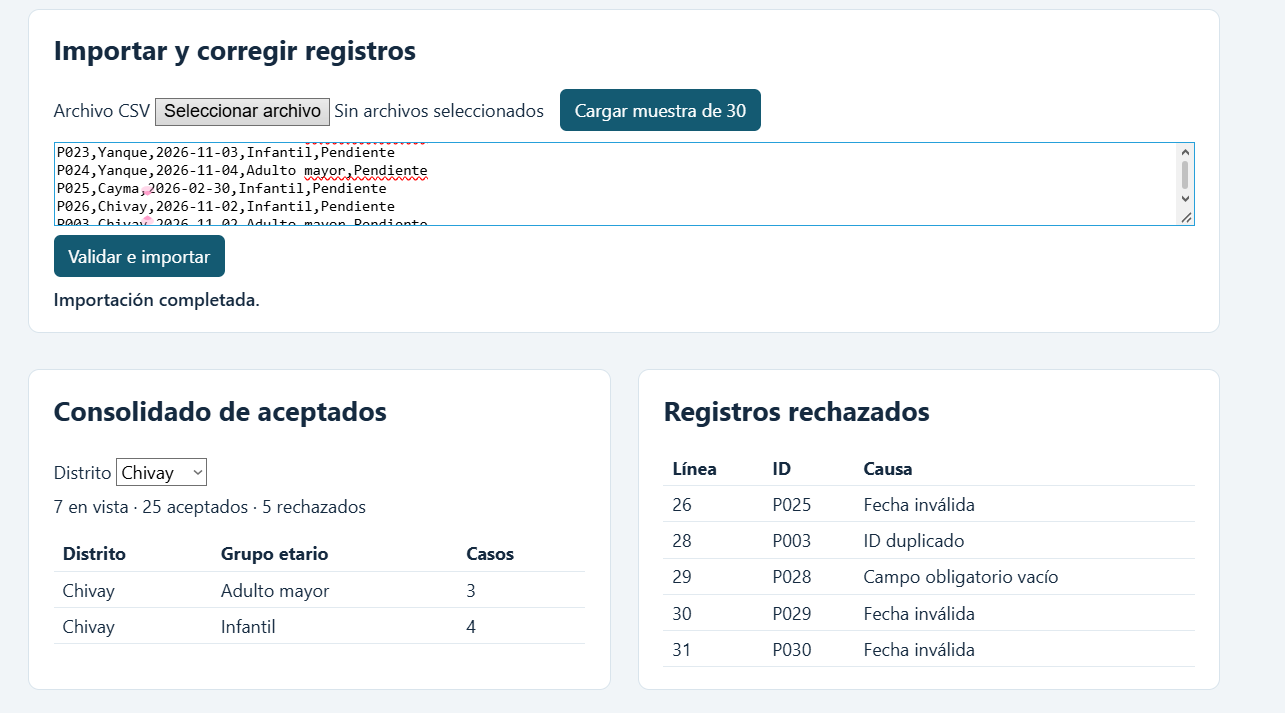
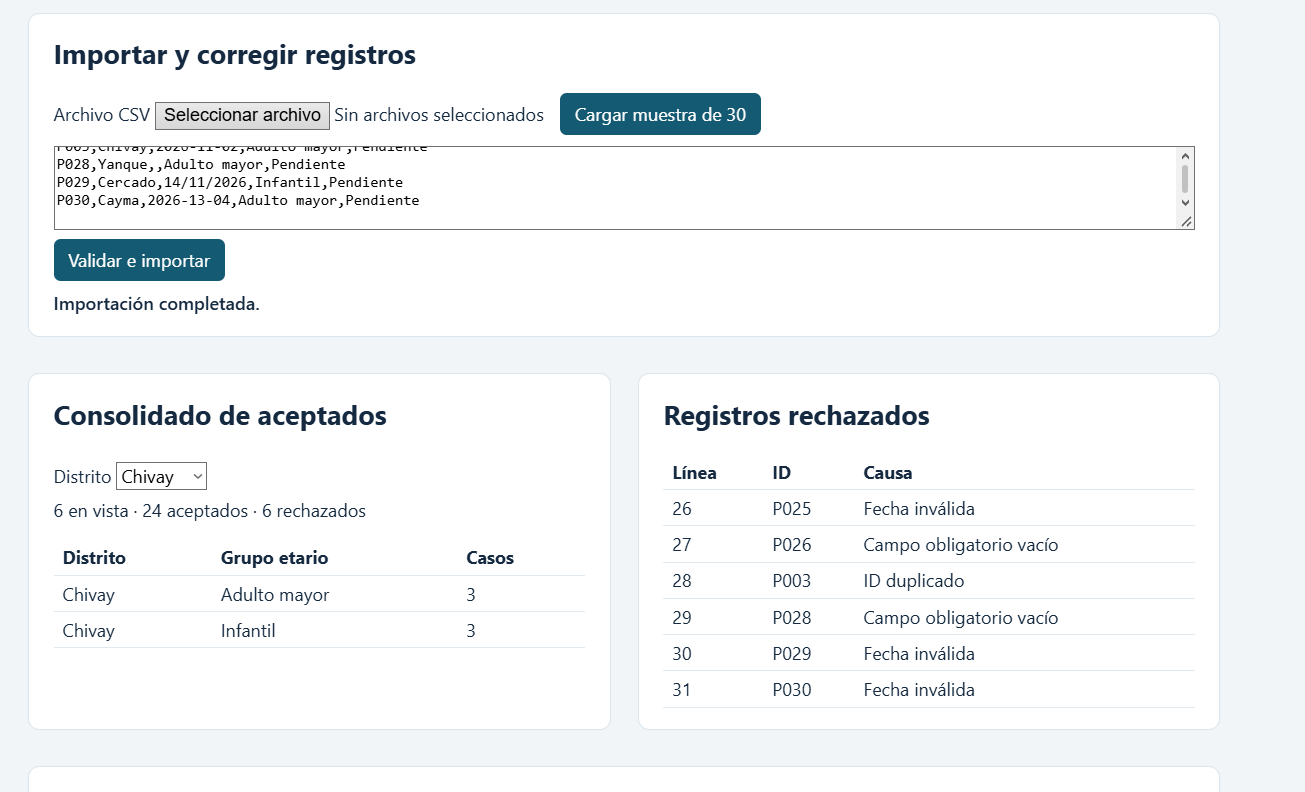
docs: vincular capturas correctas de T09 y T10

diff --git a/07_tablero/generar.py b/07_tablero/generar.py
@@ -40,9 +40,11 @@ EVIDENCE = [
  ("E30","Registro de revisión cruzada","06_evidencias/revision_cruzada/registro.md","Común"),
  ("E31","Verificación de la herramienta","07_tablero/herramienta.md","Común"),
  ("E32","Plan de acopio e indexación","06_evidencias/acopio.md","Común"),
+ ("E33","Captura T09: P026 corregido","06_evidencias/pruebas_usuario/T09_p026_corregido.png","F1"),
+ ("E34","Captura T10: resumen de Chivay","06_evidencias/pruebas_usuario/T10_resumen_chivay.png","F2"),
 ]
 PENDING = {"E27", "E29", "E30"}
-V2_ONLY = {"E05","E12","E18","E26","E28"}
+V2_ONLY = {"E05","E12","E18","E26","E28","E33","E34"}
 V1_ONLY = {"E11","E17","E25"}
 CRITERIA = [
  ("OPD","E1","Estándar y plantillas versionados","E02 E04","E02 E04","E","E","Proceso y tres plantillas localizables."),
@@ -66,7 +68,7 @@ CRITERIA = [
  ("VER","E4","Revisión por pares de evidencia de verificación","","","N","N","Falta revisión humana del log y los pasos."),
  ("VER","E4","Regresión posterior al cambio aprobada","E17","E18 E28","N","E","T12 falla en la base experimental y pasa tras el cambio."),
  ("VAL","E4","Protocolo con dos escenarios y condiciones de observación","E19","E19","E","E","Tareas, cronometraje, condiciones y criterio de aceptación definidos."),
- ("VAL","E4","Dos tareas ejecutadas con usuario simulado","","E18 E19","N","P","v1: sin ejecución con usuario. v2: T09 y T10 confirmadas por el equipo; capturas originales por incorporar."),
+ ("VAL","E4","Dos tareas ejecutadas con usuario simulado","","E18 E19 E33 E34","N","E","v1: sin ejecución con usuario. v2: resultados registrados y capturas enlazadas para T09 y T10."),
  ("VAL","E4","Usuario y revisor corroboran el resultado","","","N","N","No existe un acta confirmada por participantes."),
  ("VAL","E4","Seguimiento de aceptación y adopción en ciclos posteriores","","","X","X","La muestra cubre un piloto; falta observación de ciclos posteriores."),
 ]
@@ -77,7 +79,7 @@ LINKS = [
  ("R03","C10","E09 E17 E18","T02","H01","A01"),
  ("R03","C18","E16 E17 E18","T04","H04","A03"),
  ("R04","C14","E07 E13 E17 E18","T07 T08","H03","A03"),
- ("R05","C22","E18 E19","T09 T10","H02","A02"),
+ ("R05","C22","E18 E19 E33 E34","T09 T10","H02","A02"),
  ("R06","C20","E05 E17 E18 E28","T11 T12","H01","A01"),
 ]
 STATES = {"E":"Evidenciado","P":"Parcial","N":"No evidenciado","X":"No evaluable"}
@@ -127,8 +129,11 @@ def generate():
         test_list=[]
         for row in cases:
             t=tests[v]["pruebas"][row["id"]]
+            evidence_id = "E19" if t["resultado"] == "No ejecutada" else "E17" if v == "v1" else "E18"
+            if row["id"] in {"T09", "T10"} and isinstance(t.get("detalle"), dict):
+                evidence_id = t["detalle"].get("evidencia_id") or evidence_id
             test_list.append(dict(corte=v,**row,observado=t["observado"],duracion_ms=t["duracion_ms"],
-                                  resultado=t["resultado"],evidencia="E19" if t["resultado"]=="No ejecutada" else "E17" if v=="v1" else "E18"))
+                                  resultado=t["resultado"],evidencia=evidence_id))
         all_tests.extend(test_list)
         cnt=lambda tag: sum(r["resultado"]==tag for r in test_list)
         done=len(test_list)-cnt("No ejecutada")

diff --git a/README.md b/README.md
@@ -36,6 +36,8 @@ La suite registra una prueba por ID en cada corte. T03 y T04 conservan las tres 
 
 ## Estado de entrega
 
-v1 es un experimento controlado, no un defecto histórico de PANVIZ. El corte v2 registra 12/12 aprobadas entre 12/12 ejecutadas. Quedan dos entrevistas, las capturas originales de T09/T10, revisiones cruzadas y aportes nominales por completar con el equipo, y falta adjuntar su presentación. Los comandos publican un repositorio nuevo en la cuenta que se autentique.
+Capturas de v2: [T09: P026 corregido](06_evidencias/pruebas_usuario/T09_p026_corregido.png) y [T10: resumen de Chivay](06_evidencias/pruebas_usuario/T10_resumen_chivay.png).
+
+v1 es un experimento controlado, no un defecto histórico de PANVIZ. El corte v2 registra 12/12 aprobadas entre 12/12 ejecutadas. Quedan dos entrevistas, revisiones cruzadas y aportes nominales por completar con el equipo, y falta adjuntar su presentación. Los comandos publican un repositorio nuevo en la cuenta que se autentique.
 
 Base conceptual y organización de artefactos: [TP8, repositorio de Gabriela](https://github.com/gbordae/panviz-iras-cmmi/tree/v0.1).
